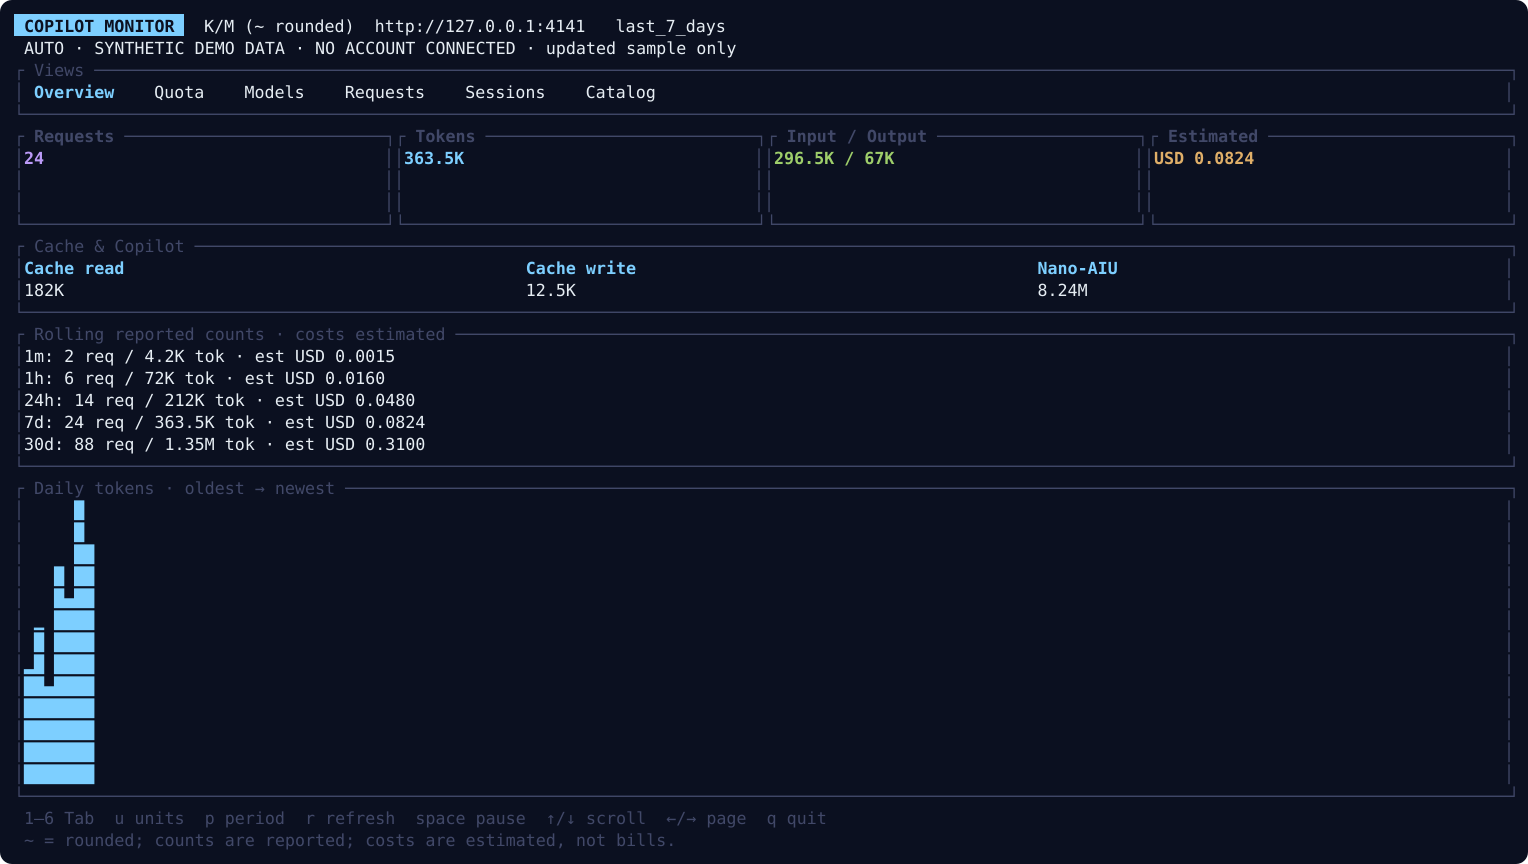
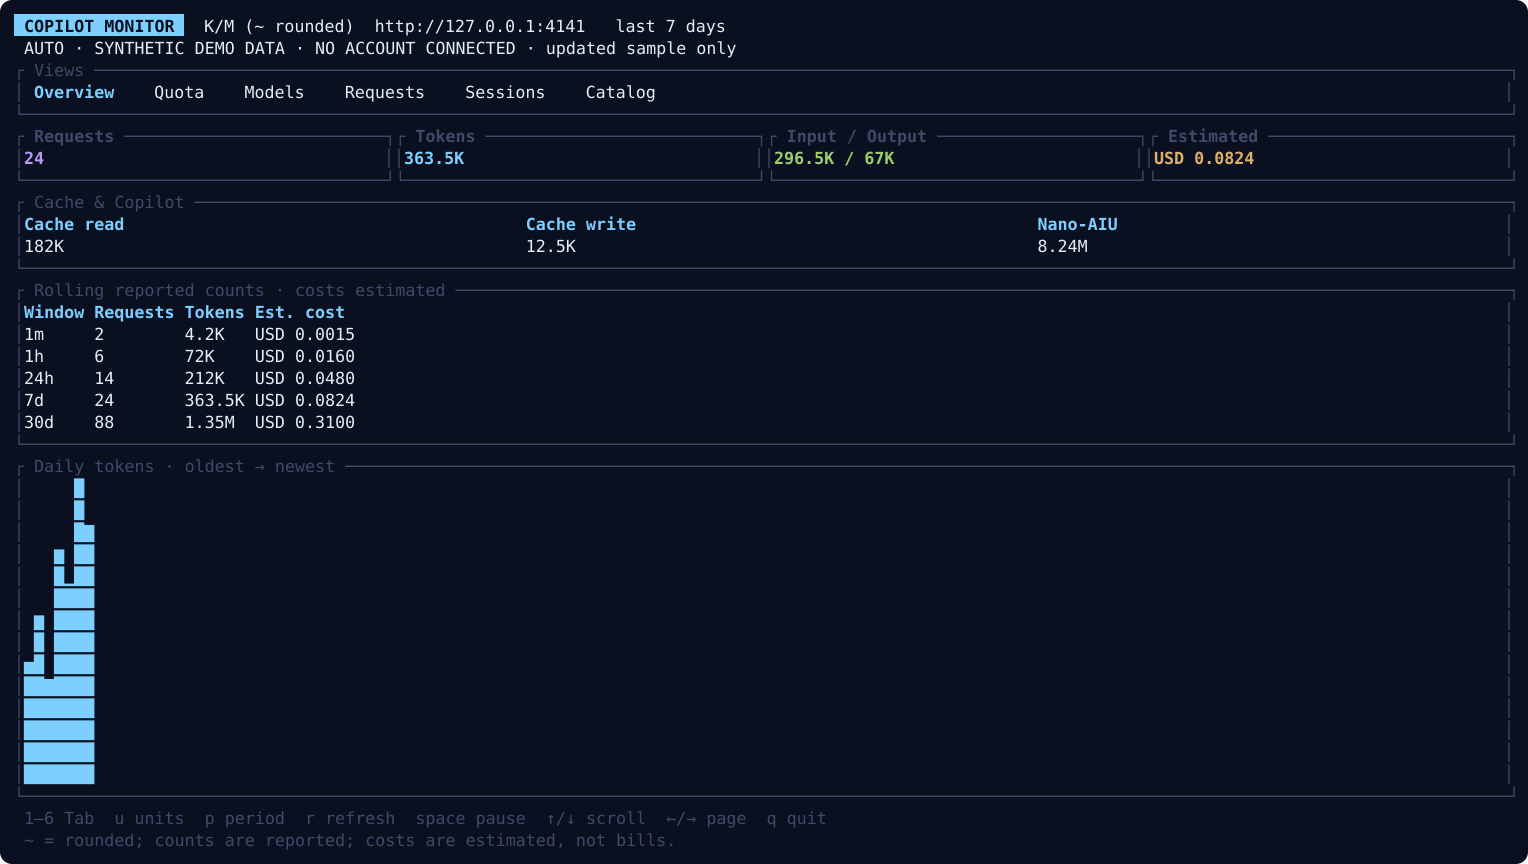
feat(monitor): tabulate rolling usage and box quota gauge

diff --git a/src/monitor/ui.rs b/src/monitor/ui.rs
@@ -288,6 +288,68 @@ fn rate_lines(rates: Option<&Value>, width: usize, exact: bool) -> Vec<String> {
     lines
 }
 
+const RATE_TABLE_HEADERS: [&str; 4] = ["Window", "Requests", "Tokens", "Est. cost"];
+
+fn rate_table_rows(rates: Option<&Value>, exact: bool) -> Option<Vec<[String; 4]>> {
+    let windows = rates
+        .and_then(|value| value.get("windows"))
+        .and_then(Value::as_array)?;
+    Some(
+        [
+            ("minute", "1m"),
+            ("hour", "1h"),
+            ("day", "24h"),
+            ("week", "7d"),
+            ("month", "30d"),
+        ]
+        .into_iter()
+        .map(|(id, default_label)| {
+            let Some(window) = windows
+                .iter()
+                .find(|window| window.get("id").and_then(Value::as_str) == Some(id))
+            else {
+                return [default_label.to_owned(), "—".into(), "—".into(), "—".into()];
+            };
+            let period = match window.get("duration_seconds").and_then(Value::as_u64) {
+                Some(60) => "1m".to_owned(),
+                Some(3600) => "1h".to_owned(),
+                Some(86400) => "24h".to_owned(),
+                Some(604800) => "7d".to_owned(),
+                Some(2592000) => "30d".to_owned(),
+                Some(seconds) => format!("{seconds}s"),
+                None => default_label.to_owned(),
+            };
+            let totals = window.get("totals").unwrap_or(&Value::Null);
+            [
+                period,
+                count(totals.get("request_count"), exact),
+                count(totals.get("total_tokens"), exact),
+                cost(totals),
+            ]
+        })
+        .collect(),
+    )
+}
+
+fn rate_table_widths(rows: &[[String; 4]]) -> [u16; 4] {
+    std::array::from_fn(|column| {
+        let width = rows
+            .iter()
+            .map(|row| row[column].chars().count())
+            .max()
+            .unwrap_or_default()
+            .max(RATE_TABLE_HEADERS[column].chars().count());
+        u16::try_from(width).unwrap_or(u16::MAX)
+    })
+}
+
+fn rate_table_total_width(rows: &[[String; 4]]) -> u16 {
+    // Three one-cell column gaps plus the panel's left/right borders.
+    rate_table_widths(rows)
+        .into_iter()
+        .fold(5u16, u16::saturating_add)
+}
+
 fn wrap_physical_lines(lines: Vec<String>, width: usize) -> Vec<String> {
     let mut wrapped = Vec::new();
     for line in lines {
@@ -457,15 +519,23 @@ fn overview(frame: &mut Frame<'_>, area: Rect, view: &View<'_>) {
         .summary
         .and_then(|s| s.get("totals"))
         .unwrap_or(&Value::Null);
-    let width = usize::from(area.width.saturating_sub(2));
-    let rolling = wrap_physical_lines(rate_lines(view.rates, width, view.exact_counts), width);
-    let rate_height = u16::try_from(rolling.len().saturating_add(2)).unwrap_or(u16::MAX);
+    let rolling = rate_table_rows(view.rates, view.exact_counts);
+    let rate_height = u16::try_from(
+        rolling
+            .as_ref()
+            .map_or(3, |rows| rows.len().saturating_add(3)),
+    )
+    .unwrap_or(u16::MAX);
+    let rate_too_wide = rolling
+        .as_ref()
+        .is_some_and(|rows| rate_table_total_width(rows) > area.width);
     if view.rates.is_some()
-        && area.height
-            < 5u16
-                .saturating_add(4)
-                .saturating_add(rate_height)
-                .saturating_add(1)
+        && (rate_too_wide
+            || area.height
+                < 3u16
+                    .saturating_add(4)
+                    .saturating_add(rate_height)
+                    .saturating_add(1))
     {
         frame.render_widget(
             Paragraph::new("Resize taller or wider to show overview and all rolling windows.")
@@ -475,7 +545,7 @@ fn overview(frame: &mut Frame<'_>, area: Rect, view: &View<'_>) {
         );
         return;
     }
-    let parts = Layout::vertical([Constraint::Length(5), Constraint::Min(3)]).split(area);
+    let parts = Layout::vertical([Constraint::Length(3), Constraint::Min(3)]).split(area);
     let cards = Layout::horizontal([
         Constraint::Percentage(25),
         Constraint::Percentage(25),
@@ -540,11 +610,26 @@ fn overview(frame: &mut Frame<'_>, area: Rect, view: &View<'_>) {
     .column_spacing(1)
     .block(panel("Cache & Copilot"));
     frame.render_widget(cache_table, body[0]);
-    frame.render_widget(
-        Paragraph::new(rolling.into_iter().map(Line::from).collect::<Vec<_>>())
-            .block(panel("Rolling reported counts · costs estimated")),
-        body[1],
-    );
+    if let Some(rows) = rolling {
+        let widths = rate_table_widths(&rows);
+        let table = Table::new(
+            rows.into_iter().map(Row::new),
+            widths.map(Constraint::Length),
+        )
+        .header(
+            Row::new(RATE_TABLE_HEADERS)
+                .style(Style::default().fg(ACCENT).add_modifier(Modifier::BOLD)),
+        )
+        .column_spacing(1)
+        .block(panel("Rolling reported counts · costs estimated"));
+        frame.render_widget(table, body[1]);
+    } else {
+        frame.render_widget(
+            Paragraph::new("Rolling reported counts: unavailable")
+                .block(panel("Rolling reported counts · costs estimated")),
+            body[1],
+        );
+    }
     let values: Vec<u64> = view
         .daily
         .and_then(|v| v.get("days"))
@@ -665,12 +750,21 @@ fn quota(frame: &mut Frame<'_>, area: Rect, view: &View<'_>) {
         let lines = wrap_physical_lines(lines, width);
         groups.push((lines, unlimited, used));
     }
-    let required = groups
+    let compact_required = groups
         .iter()
         .map(|(lines, _, _)| lines.len().saturating_add(1))
         .sum::<usize>()
         + usize::from(token_based);
-    if required > usize::from(inner.height) {
+    let boxed_required = groups
+        .iter()
+        .map(|(lines, unlimited, used)| {
+            let gauge_height = if !unlimited && used.is_some() { 3 } else { 1 };
+            lines.len().saturating_add(gauge_height)
+        })
+        .sum::<usize>()
+        + usize::from(token_based);
+    let boxed_gauges = boxed_required <= usize::from(inner.height);
+    if compact_required > usize::from(inner.height) {
         frame.render_widget(
             Paragraph::new("Resize taller or wider to show all quota counts and reset times.")
                 .wrap(Wrap { trim: true }),
@@ -680,10 +774,15 @@ fn quota(frame: &mut Frame<'_>, area: Rect, view: &View<'_>) {
     }
     let mut constraints: Vec<_> = groups
         .iter()
-        .flat_map(|(lines, _, _)| {
+        .flat_map(|(lines, unlimited, used)| {
+            let gauge_height = if boxed_gauges && !unlimited && used.is_some() {
+                3
+            } else {
+                1
+            };
             [
                 Constraint::Length(u16::try_from(lines.len()).unwrap_or(u16::MAX)),
-                Constraint::Length(1),
+                Constraint::Length(gauge_height),
             ]
         })
         .collect();
@@ -717,6 +816,11 @@ fn quota(frame: &mut Frame<'_>, area: Rect, view: &View<'_>) {
             };
             frame.render_widget(
                 Gauge::default()
+                    .block(if boxed_gauges {
+                        panel("Usage")
+                    } else {
+                        Block::default()
+                    })
                     .gauge_style(Style::default().fg(color))
                     .ratio(clamped / 100.0)
                     .label(format!("{used}% used")),
@@ -1858,11 +1962,30 @@ mod tests {
             terminal.draw(|f| render(f, &v)).unwrap();
             let display = render_text(&terminal);
             assert!(display.contains("Rolling reported counts"), "{display}");
-            assert!(display.contains("1m: 11 req / 111 tok"), "{display}");
-            assert!(display.contains("1h: 22 req / 222 tok"), "{display}");
-            assert!(display.contains("24h: —"), "{display}");
-            assert!(display.contains("7d: —"), "{display}");
-            assert!(display.contains("30d: —"), "{display}");
+            for header in RATE_TABLE_HEADERS {
+                assert!(display.contains(header), "missing {header}: {display}");
+            }
+            let rows = rate_table_rows(Some(&rates), false).unwrap();
+            assert_eq!(
+                rows[0],
+                ["1m".to_owned(), "11".into(), "111".into(), "—".into()]
+            );
+            assert_eq!(
+                rows[1],
+                ["1h".to_owned(), "22".into(), "222".into(), "—".into()]
+            );
+            assert_eq!(
+                rows[2],
+                ["24h".to_owned(), "—".into(), "—".into(), "—".into()]
+            );
+            assert_eq!(
+                rows[3],
+                ["7d".to_owned(), "—".into(), "—".into(), "—".into()]
+            );
+            assert_eq!(
+                rows[4],
+                ["30d".to_owned(), "—".into(), "—".into(), "—".into()]
+            );
         }
     }
 
@@ -1889,19 +2012,43 @@ mod tests {
                 let mut terminal = Terminal::new(TestBackend::new(width, height)).unwrap();
                 terminal.draw(|f| render(f, &v)).unwrap();
                 let display = render_text(&terminal);
-                for expected in [
-                    "1m: 1 req / 10 tok",
-                    "1h: 2 req / 20 tok",
-                    "24h: 3 req / 30 tok",
-                    "7d: 4 req / 40 tok",
-                    "30d: 5 req / 50 tok",
-                    "USD 0.0400",
-                    "USD 0.0500",
-                ] {
-                    assert!(
-                        display.contains(expected),
-                        "missing {expected} in tab {tab} at {width}x{height}: {display}"
-                    );
+                if tab == 0 {
+                    for header in RATE_TABLE_HEADERS {
+                        assert!(display.contains(header), "missing {header}: {display}");
+                    }
+                    let rows = rate_table_rows(Some(&rates), false).unwrap();
+                    for (index, expected) in [
+                        ["1m", "1", "10", "USD 0.0100"],
+                        ["1h", "2", "20", "USD 0.0200"],
+                        ["24h", "3", "30", "USD 0.0300"],
+                        ["7d", "4", "40", "USD 0.0400"],
+                        ["30d", "5", "50", "USD 0.0500"],
+                    ]
+                    .into_iter()
+                    .enumerate()
+                    {
+                        for column in 0..4 {
+                            assert_eq!(
+                                rows[index][column], expected[column],
+                                "wrong table row {index}, column {column}"
+                            );
+                        }
+                    }
+                } else {
+                    for expected in [
+                        "1m: 1 req / 10 tok",
+                        "1h: 2 req / 20 tok",
+                        "24h: 3 req / 30 tok",
+                        "7d: 4 req / 40 tok",
+                        "30d: 5 req / 50 tok",
+                        "USD 0.0400",
+                        "USD 0.0500",
+                    ] {
+                        assert!(
+                            display.contains(expected),
+                            "missing {expected} in tab {tab} at {width}x{height}: {display}"
+                        );
+                    }
                 }
             }
         }
@@ -2008,6 +2155,12 @@ mod tests {
                 assert!(
                     display.contains(expected),
                     "missing {expected} at {width}x{height}: {display}"
+                );
+            }
+            if width == 178 {
+                assert!(
+                    display.contains("┌ Usage"),
+                    "missing boxed gauge: {display}"
                 );
             }
             assert!(

diff --git a/RUST_GUIDE.md b/RUST_GUIDE.md
@@ -48,13 +48,13 @@ After signing in, run `./target/release/copilot-api-rust monitor` in an interact
 - In Models, `d` opens the selected model's reference unit prices and reported AIU spend. In Catalog, `/` filters model name, ID, or vendor; type text, Enter to keep, Backspace to edit, or Esc to clear. `s` cycles highest-output, long-context-output, default input, cache-read, cache-write and name sorting; `o` reverses direction; `↑`/`↓` or `j`/`k` selects a model, Home/End jumps, and PgUp/PgDn scrolls its details. By default, the highest available published output-tier reference price sorts first. Input and cache sorts use the default tier; long-context output sorts by its published long-context quote; unknown prices sort last. A partial-tier marker indicates that another reported tier lacks a published reference price.
 - Usage refreshes every five seconds; quota every 60 seconds and on manual refresh. Stale/error status is shown rather than treating missing data as zero.
 
-The monitor displays upstream-reported, persisted usage: in-flight requests may not appear until they complete or are cancelled. Overview and the selected session show rolling 1-minute, 1-hour, 24-hour, 7-day and 30-day counts of **reported usage events**, tokens and estimated costs. These do not count requests for which no usage was reported. They persist across restarts in the Rust usage database. Usage from the original gateway database is not imported. Session grouping uses client-provided IDs when available; otherwise each request uses its own ID. Earlier rows saved without a session ID cannot be reconstructed reliably.
+The monitor displays upstream-reported, persisted usage: in-flight requests may not appear until they complete or are cancelled. Overview presents rolling 1-minute, 1-hour, 24-hour, 7-day and 30-day counts of **reported usage events**, tokens and estimated costs in a table; the selected session shows the same windows scoped to that session. These do not count requests for which no usage was reported. They persist across restarts in the Rust usage database. Usage from the original gateway database is not imported. Session grouping uses client-provided IDs when available; otherwise each request uses its own ID. Earlier rows saved without a session ID cannot be reconstructed reliably.
 
 Token subcounts are shown only when the provider reported them; older rows lack newly captured details. These subcounts can overlap and should not be added together. The terminal stores only bounded numeric token subcounts, not raw request or response content. Protocol completion observed upstream is recorded as completed even if the client closes before HTTP EOF; this does not prove delivery to the client. A reported incomplete response is shown separately. Existing cancellation labels remain unchanged and may have been classified incorrectly before this fix.
 
 Quota requires a working GitHub sign-in. Copilot estimated cost converts the provider-reported AIU amount and does not apply an independent per-model price table; it is not a bill. A terminal of at least 42 columns by 10 rows is needed for the full layout, and some detailed panels require more space.
 
-For GitHub organization/enterprise usage, [GitHub describes AI credits as model- and token-dependent](https://docs.github.com/en/copilot/concepts/billing-and-usage/organizations-and-enterprises/billing). The quota panel shows the provider's separately reported allowance and remaining values; for token-based billing their unit is marked unconfirmed. The Copilot quota snapshot can differ from GitHub's billing page, so check the latter for authoritative billing information.
+For GitHub organization/enterprise usage, [GitHub describes AI credits as model- and token-dependent](https://docs.github.com/en/copilot/concepts/billing-and-usage/organizations-and-enterprises/billing). The quota panel shows the provider's separately reported allowance and remaining values; for token-based billing their unit is marked unconfirmed. When there is enough terminal space, the used-percent meter is shown inside a box. The Copilot quota snapshot can differ from GitHub's billing page, so check the latter for authoritative billing information.
 
 The catalog is fetched from the signed-in Copilot account's `/models` endpoint at startup, every 60 seconds and on `r`; it retains entries even when prices or capabilities are missing. Unit prices labeled **GitHub reference credits / 1M** come from a separately bundled [public pricing snapshot](https://docs.github.com/en/copilot/reference/copilot-billing/models-and-pricing), retrieved 2026-11-20; one AI credit is $0.01 under that reference. Reference matching uses exact provider name and vendor, supported tier/threshold and date checks. It is not a guarantee of your account's actual charges. Dated promotions expire conservatively; ambiguous or outdated (over 30 days) references become unavailable. Raw `/models` price values are separately labeled unverified and are never treated as credits or used for price sorting. The selected-period AIU spend shown beside them is provider-reported and may be partial; it is not a unit price.
 

diff --git a/docs/RUST_PORT_SPEC.md b/docs/RUST_PORT_SPEC.md
@@ -24,6 +24,8 @@
 - If supported, provide optional automatic billing-account switching when a stream reports monthly quota exhaustion. It must be off by default, restricted to a user-selected ordered allowlist, and automatically retry the failed request once after switching. (User, 2026-11-20.)
 - Display token and other count quantities using thousands/millions-style units (K, M, etc.). (User, 2026-11-20.)
 - Add rolling 7-day and 30-day counters to the terminal monitor. (User, 2026-11-20.)
+- Display rolling reported counts in a table with period, request, token, and estimated-cost columns. (User, 2026-11-22.)
+- Draw a visible box around the quota percent-used bar. (User, 2026-11-22.)
 - The Models pane should show both per-token model unit prices and credits/AIU spent. Add a separate pane listing all Copilot-provided models and their information, with optional price sorting. Default to the highest available output-tier price first and keep missing or unverified prices visible last; offer other sort orders. (User, 2026-11-20; tier clarified 2026-11-21.)
 - The available-model catalog should be filterable by model name. (User, 2026-11-21.)
 - The model catalog sorting options should include long-context pricing. (User, 2026-11-21.)
